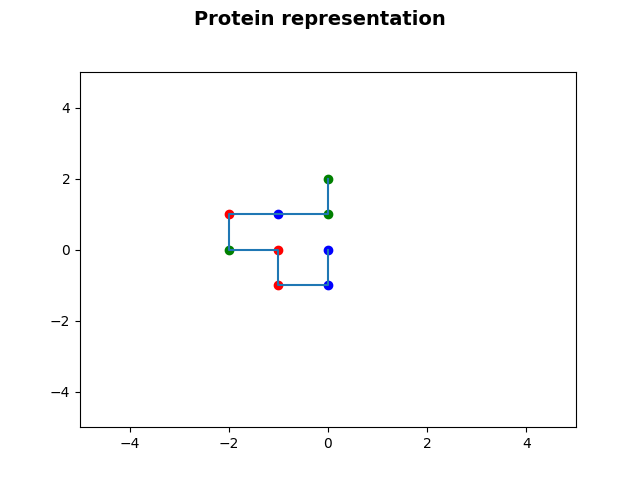
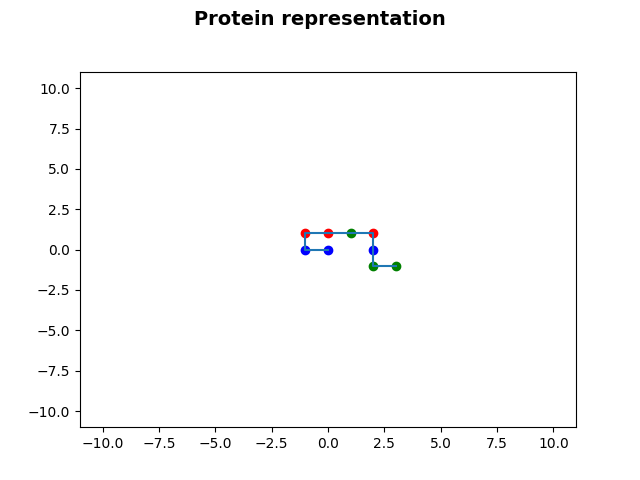
visualise protein 2

diff --git a/code/visualisation/visualise.py b/code/visualisation/visualise.py
@@ -9,11 +9,6 @@ import matplotlib
 import matplotlib.pyplot as plt 
 from code.classes import protein, molecule
 
-X_MIN = -5
-X_MAX = 5
-Y_MIN = -5
-Y_MAX = 5
-
 # print("test 2")
 
 def make_plot(protein):
@@ -25,6 +20,9 @@ def make_plot(protein):
     ax = fig.add_subplot()
     fig.subplots_adjust(top=0.85)
 
+    # adjust graph size to length of the protein
+    max_length = protein.size_data + 1
+
     # TEST INFO - remove later
     # print("mol_loc", protein_dict)
     # for i, item in enumerate(protein_dict):
@@ -35,18 +33,13 @@ def make_plot(protein):
     fig.suptitle('Protein representation', fontsize=14, fontweight='bold')
 
     # set x- and y-axis limits
-    ax.axis([X_MIN, X_MAX, Y_MIN, Y_MAX])
-
-    # remember location of last dot
-    # last_dot = []
+    ax.axis([(-max_length), (max_length), (-max_length), (max_length)])
 
     x_values = []
     y_values = []
 
     # loop over molecules of the protein
     for i, item in enumerate(protein_dict):
-        # remember location of last dot
-        last_dot = item
 
         # obtain x and y values
         x_value = int(item[0])
@@ -59,14 +52,6 @@ def make_plot(protein):
             ax.plot(x_value, y_value, 'ro')
         else:
             ax.plot(x_value, y_value, 'go')
-
-        # print line between this dot and the one before
-        # DOES NOT WORK
-        # x_lines = [last_dot[0], item[0]]
-        # y_lines = [last_dot[1], item[1]]
-        # print("x lines", x_lines)
-        # print("y lines", y_lines)
-        # ax.plot(x_lines, y_lines)
 
         x_values.append(x_value)
         y_values.append(y_value)
